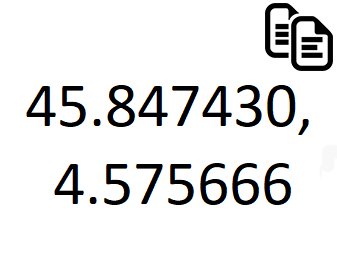
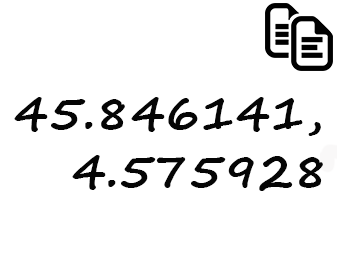
Changement position message

Changed region(s): [[0.0297, 0.3077, 0.9496, 0.5231], [0.1484, 0.5846, 0.9792, 0.8]]

diff --git a/src/js/event.js b/src/js/event.js
@@ -49,7 +49,7 @@ function next_dialogue() {
       let personageImage = document.getElementById("personageImage");
       personageImage.src = "../../img/message.png";
       personageImage.addEventListener('click',function(){
-        copyToClipboard("45.847430,4.575666");
+        copyToClipboard("45.846141,4.575928");
       });
     }
   }
